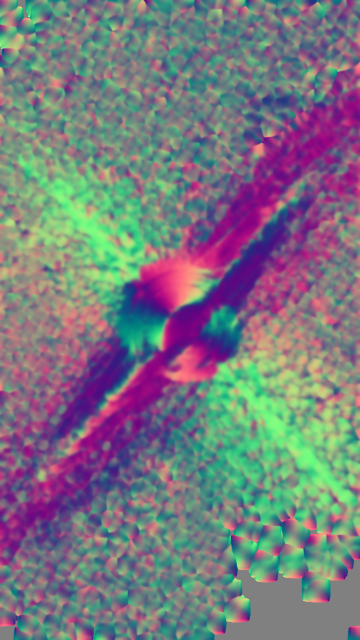
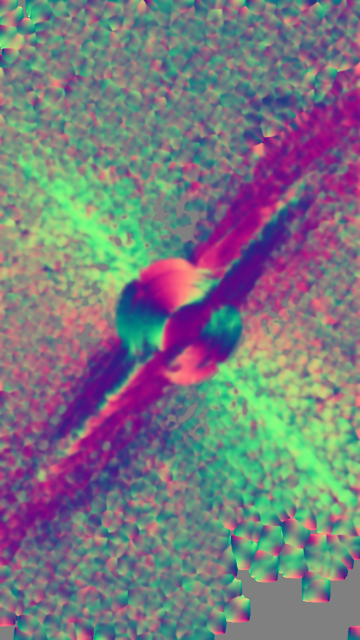
Intro: the drive fails into TV static and black, then white light; the wing corners go
The jump's failure is now a quake that grows harder and harder, the picture breaking up into
TV static (snow, a rolling bar, slipping lines) and then going black; after a beat, a sudden
white light, and the ship is through. The HUD vanishes with the signal and returns on arrival.

The two corners of the disk's wings (upper left and lower right, beyond the photon ring) are
taken out of the reference (public/hole-ref.webp; the red fallback image follows), and the bake
keeps them quiet: there the lane and flow fields hold no lanes running round the hole, and the
seam map stills the disk's orbital detail and motion, so the page does not draw the arcs back.

diff --git a/src/scene.ts b/src/scene.ts
@@ -100,18 +100,24 @@ export const INTRO = {
   lock: 6.05,
   spool: 6.45,
   engage: 7.45,
-  glitch: 11.45,
-  drop: 13.15,
+  /** Mid-jump the drive fails: the ship shakes harder and harder (GLITCH), the picture breaks up into
+   * TV static (STATIC), then the screen goes black (BLACK); after a beat, a sudden white light and
+   * it is through (DROP). */
+  glitch: 10.9,
+  static: 12.2,
+  black: 12.95,
+  drop: 14.2,
   /** Out of the jump it brakes hard and comes to rest at STILL; the arrival title holds, centred,
    * from NAMED until the page shows at ARRIVE. */
-  named: 14.05,
-  still: 15.75,
-  arrive: 16.95,
+  named: 15.1,
+  still: 16.8,
+  arrive: 18.0,
 };
 const ENGAGE_AT = INTRO.engage;
 const GLITCH_AT = INTRO.glitch;
+const STATIC_AT = INTRO.static;
+const BLACK_AT = INTRO.black;
 const DROP_AT = INTRO.drop;
-const SETTLE = 0.9;   // the drop's interference dying away
 const ZOOM_TIME = 1.05;
 
 /**
@@ -122,7 +128,7 @@ const ZOOM_TIME = 1.05;
 export const LAUNCH = { charge: 0.55, jump: 0.18, settle: 0.6 };
 export type LaunchPhase = 'charge' | 'jump' | 'arrive';
 
-export type JumpPhase = 'engage' | 'glitch' | 'drop';
+export type JumpPhase = 'engage' | 'glitch' | 'static' | 'black' | 'drop';
 
 export class HoleScene {
   readonly hole: BlackHole;
@@ -266,6 +272,8 @@ export class HoleScene {
   }
   private holeAt = { x: 0, y: 0 };
   private engaged = false;
+  /** The picture as the drive fails: '' fine, then 'static', then 'black'. */
+  private signal: '' | 'static' | 'black' = '';
   /** Leaving hyperspace (scene time it dropped out, or -1): everything slows from fast to still. */
   private exitT0 = -1;
   /** The clock the scene's motion runs on: the disk, the starlight, the planets' drift. It races
@@ -307,6 +315,7 @@ export class HoleScene {
     this.revealT0 = -1;
     this.glitching = false;
     this.engaged = false;
+    this.signal = '';
     this.exitT0 = -1;
     this.dropped = false;
     this.jumpT0 = this.time;
@@ -477,9 +486,9 @@ export class HoleScene {
       for (const k of ['cx', 'cy', 'r'] as const) this.cur[k] = lerp(this.cur[k], target[k], f);
     }
 
-    // Intro: a normal hyperspace jump, then the drive fails in bursts that grow longer and harder
-    // (the frame tears, the streaks stutter), then it drops out with a red flash straight into the
-    // red field, the last of the interference dying away.
+    // Intro: a normal hyperspace jump; then the drive fails: the ship shakes harder and harder, the
+    // picture breaks up into TV static and goes black; after a beat, a sudden white light, and it
+    // is through, braking hard into the field round the hole.
     let warp = 0;
     let glitch = 0;
     let flash = 0;
@@ -489,6 +498,9 @@ export class HoleScene {
     let jolt = 0;
     let jBlur = 0;
     let jWhite = 0;
+    // The drive failing: TV static over everything, then black.
+    let snow = 0;
+    let black = 0;
     const tick = Math.floor(this.time * 13);
     if (this.jumpT0 >= 0) {
       const t = this.time - this.jumpT0;
@@ -517,10 +529,27 @@ export class HoleScene {
             this.glitching = true;
             this.onJump?.('glitch');
           }
-          const k = clamp01((t - GLITCH_AT) / (DROP_AT - GLITCH_AT));
-          const burst = hash(tick) < 0.3 + 0.6 * k;
-          glitch = burst ? 0.35 + 0.65 * k : 0.1 * k;
-          if (burst) warp *= 0.5 + 0.5 * hash(tick + 0.5);
+          // The drive failing: the ship shakes harder and harder, the streaks stutter.
+          const k = clamp01((t - GLITCH_AT) / (STATIC_AT - GLITCH_AT));
+          jolt = Math.max(jolt, 5 + 30 * k * k);
+          warp *= 0.7 + 0.3 * hash(tick + 0.5);
+        }
+        if (t >= STATIC_AT && t < BLACK_AT) {
+          if (this.signal !== 'static') {
+            this.signal = 'static';
+            this.onJump?.('static');
+          }
+          // The picture breaks up into TV static.
+          snow = clamp01((t - STATIC_AT) / 0.08);
+        }
+        if (t >= BLACK_AT) {
+          if (this.signal !== 'black') {
+            this.signal = 'black';
+            this.onJump?.('black');
+          }
+          // Nothing: black, for a beat.
+          black = 1;
+          jolt = 0;
         }
       } else {
         if (!this.dropped) {
@@ -529,9 +558,9 @@ export class HoleScene {
           this.exitT0 = this.time;
           this.onJump?.('drop');
         }
+        // Out of the black, a sudden white light: through.
         const a = t - DROP_AT;
-        flash = 0.85 * Math.max(0, 1 - a / 0.4);
-        glitch = 0.6 * Math.max(0, 1 - a / SETTLE) * (hash(tick) < 0.5 ? 1 : 0.3);
+        jWhite = Math.max(jWhite, 3.2 * (a < 0.06 ? 1 : Math.exp(-(a - 0.06) / 0.3)));
         // The page shows while the scene is still slowing.
         if (t >= INTRO.arrive) {
           this.jumpT0 = -1;
@@ -681,6 +710,8 @@ export class HoleScene {
       sky: (this.cur.r / UNIT) * pr,
       red,
       silver: silver ? 1 : 0,
+      snow,
+      black,
       glitch,
       glitchSeed: tick % 997,
       flash,

diff --git a/src/blackhole.ts b/src/blackhole.ts
@@ -1342,7 +1342,8 @@ void main() {
     if (en > 0.0 && refW < 1.0) {
       // Which way the picture's lanes run: along the orbits on the disk (away from seams between
       // surfaces, where the radius jumps from pixel to pixel), round the hole in and around its shadow.
-      float onDisk = hitType > 0 ? 1.0 - smoothstep(8.0, 16.0, g * uScale) : 0.0;
+      // (and not where the seam map holds the disk still: its edges, and the wings' removed corners)
+      float onDisk = hitType > 0 ? (1.0 - smoothstep(8.0, 16.0, g * uScale)) * awayFromSeams(p) : 0.0;
       float nearHole = absorbed ? 1.0 : hitType > 0 ? 1.0 - smoothstep(9.0, 12.0, gRu) : 1.0 - smoothstep(5.5, 7.0, gRu);
       float calm = max(onDisk, nearHole);
       if (calm > 0.0) {
@@ -1521,6 +1522,9 @@ export interface HoleState {
   flash: number;
   /** The silver-white palette (no red anywhere after the jump). */
   silver?: number;
+  /** The drive failing: TV static over the picture (0..1), and the screen going black (0..1). */
+  snow?: number;
+  black?: number;
   /** Leaving hyperspace: speed still left (1 at the drop, 0 at rest). */
   exit?: number;
   /** A jump to a body: radial motion blur towards blurAt (drawing-buffer px, y up), and the arrival flash. */
@@ -1631,6 +1635,8 @@ uniform float uGlitch;
 uniform float uGlitchSeed;
 uniform float uFlash;
 uniform float uSilver;  // the silver-white palette: no red bleeding through the glitch, a white drop-out flash
+uniform float uSnow;    // TV static over everything (the drive failing)
+uniform float uBlack;   // the screen gone black
 uniform float uBlur;    // a jump: radial motion blur towards uBlurC (drawing-buffer px), 0..1
 uniform vec2 uBlurC;
 uniform float uWhite;   // a jump's arrival: a white-hot flash
@@ -1705,10 +1711,25 @@ void main() {
     float line = 1.0 - smoothstep(0.25, 0.9, wpx);
     c += vec3(1.0, 0.88, 0.74) * line * seg * on * smoothstep(60.0, 220.0, rr) * uBlur * 0.9;
   }
+  // The drive failing: the picture breaks up into TV static (snow, a rolling bar, scanlines, lines
+  // slipping sideways), then the screen goes black.
+  if (uSnow > 0.001) {
+    vec2 g = f / (1.6 * uPr);
+    float row = floor(g.y);
+    g.x += (h(vec2(row * 0.37, floor(uSeed))) - 0.5) * 6.0 * step(0.86, h(vec2(row, uSeed + 2.0)));
+    float n = h(floor(g) + vec2(uSeed * 13.1, uSeed * 7.7));
+    n = mix(n, h(floor(g * 0.5) + uSeed), 0.25);
+    float yy = fract(f.y / uRes.y + uT * 0.9);
+    float bar = 1.0 - 0.45 * exp(-sq((yy - 0.5) / 0.07));
+    float lines = 0.82 + 0.18 * step(0.5, fract(f.y / (2.0 * uPr)));
+    vec3 tv = vec3(0.86, 0.88, 0.9) * (0.08 + 0.92 * n * n) * bar * lines;
+    c = mix(c, tv, uSnow);
+  }
+  c *= 1.0 - uBlack;
   // The arrival flash: white-hot at the point of arrival, a fainter wash beyond.
   if (uWhite > 0.001) {
     float d = length(f - uBlurC) / uRes.y;
-    c = mix(c, vec3(1.0, 0.95, 0.88), clamp(uWhite * (0.3 + 0.9 * exp(-sq(d / 0.32))), 0.0, 1.0));
+    c = mix(c, mix(vec3(1.0, 0.95, 0.88), vec3(0.97, 0.98, 1.0), uSilver), clamp(uWhite * (0.3 + 0.9 * exp(-sq(d / 0.32))), 0.0, 1.0));
   }
   // A whisper of grain hides banding in the dark glow.
   c += (h(f + uSeed) - 0.5) / 255.0 * uGrain;
@@ -1981,6 +2002,8 @@ export class BlackHole {
       gl.uniform1f(gl.getUniformLocation(p, 'uGlitchSeed'), s.glitchSeed);
       gl.uniform1f(gl.getUniformLocation(p, 'uFlash'), s.flash);
       gl.uniform1f(gl.getUniformLocation(p, 'uSilver'), s.silver ?? 0);
+      gl.uniform1f(gl.getUniformLocation(p, 'uSnow'), s.snow ?? 0);
+      gl.uniform1f(gl.getUniformLocation(p, 'uBlack'), s.black ?? 0);
       gl.uniform1f(gl.getUniformLocation(p, 'uBlur'), s.blur ?? 0);
       gl.uniform2f(gl.getUniformLocation(p, 'uBlurC'), s.blurAt?.[0] ?? 0, s.blurAt?.[1] ?? 0);
       gl.uniform1f(gl.getUniformLocation(p, 'uWhite'), s.white ?? 0);

diff --git a/src/styles.css b/src/styles.css
@@ -1661,6 +1661,14 @@ html:not(.stacked) .hud-lock.flip .hud-target::before {
     1px 0 rgba(60, 230, 255, 0.8);
 }
 
+/* The signal lost (TV static, then black): nothing of the HUD shows through. */
+.intro.nosignal .hud,
+.intro.nosignal .intro-c,
+.intro.nosignal .intro-skip {
+  opacity: 0;
+  transition: none;
+}
+
 /* The drive fails: the HUD turns red and shakes. */
 .intro.glitch {
   --hud: #ff5a3c;
@@ -2830,4 +2838,27 @@ body.jumping .foot {
 .palette-silver .paper-row:hover,
 .palette-silver .paper-row:focus-visible {
   background: rgba(220, 230, 245, 0.05);
+}
+
+/* The drive failing: the whole HUD quakes with the ship. */
+.intro.glitch:not(.dropped) .hud,
+.intro.glitch:not(.dropped) .intro-c {
+  animation: hud-quake 0.09s steps(2, end) infinite;
+}
+@keyframes hud-quake {
+  0% {
+    transform: translate(0, 0);
+  }
+  25% {
+    transform: translate(-9px, 5px) rotate(-0.4deg);
+  }
+  50% {
+    transform: translate(8px, -6px);
+  }
+  75% {
+    transform: translate(-5px, -4px) rotate(0.3deg);
+  }
+  100% {
+    transform: translate(6px, 3px);
+  }
 }

diff --git a/src/main.ts b/src/main.ts
@@ -659,9 +659,11 @@ async function intro(s: NonNullable<typeof scene>) {
       introEl.classList.add('glitch');
       label.textContent = '⚠ DRIVE MALFUNCTION';
     }
+    // The signal breaks up and is lost: the HUD goes with it.
+    if (p === 'static' || p === 'black') introEl.classList.add('nosignal');
     if (p === 'drop') {
       phase = 'drop';
-      introEl.classList.remove('punch');
+      introEl.classList.remove('punch', 'nosignal');
       void introEl.offsetWidth;
       introEl.classList.add('dropped', 'slam');
     }

diff --git a/scripts/bake-disk.py b/scripts/bake-disk.py
@@ -64,6 +64,28 @@ def taps(x, y, W, H):
     return idx, w
 
 
+def wing_corners(code):
+    """The two corners of the disk's wings that were taken out of the picture (upper left and lower
+    right, beyond the photon ring, on open sky or the faint outer inner disk): 1 there, 0 elsewhere,
+    soft-edged. No lanes may run round the hole there, and the disk's own orbital detail and motion
+    hold still, or the page would draw the arcs back in."""
+    CX, CY = 356.0, 640.0
+    ys, xs = np.mgrid[0:code.shape[0], 0:code.shape[1]].astype(np.float64)
+    rx, ry = xs - CX, -(ys - CY)
+    th = (np.degrees(np.arctan2(ry, rx)) + 360) % 360
+    rad = np.hypot(rx, ry)
+
+    def band(a, b, w):
+        t = (th - a) % 360
+        span = (b - a) % 360
+        return np.clip(t / w, 0, 1) * np.clip((span - t) / w, 0, 1) * (t <= span)
+
+    sector = np.maximum(band(72, 203, 10), band(255, 18, 10))
+    radial = np.clip((rad - 120) / 14, 0, 1) * (1 - np.clip((rad - 230) / 30, 0, 1))   # (clear of the ring's own arcs)
+    open_ = ndimage.gaussian_filter(((code == 0) | (code == 2)).astype(np.float64), 3.0)
+    return sector * radial * open_
+
+
 def bake_lanes(ref, code):
     """The picture's light lanes round the hole (public/disk-lanes.webp): RG the lane direction (y up,
     turned to circulate counter-clockwise), B its weight (how clearly the lane runs round the hole)
@@ -86,13 +108,14 @@ def bake_lanes(ref, code):
     conc = np.abs(cr) / np.maximum(rad, 1e-6)
     w = np.clip((coh - 0.05) / 0.2, 0, 1) * np.clip((conc - 0.25) / 0.35, 0, 1) * (1 - np.clip((rad / PX - 18) / 5, 0, 1))
     w = np.clip(ndimage.gaussian_filter(w, 5.0) * 1.4, 0, 1)
+    w *= 1 - wing_corners(code)
     tux, tuy = ndimage.gaussian_filter(tux, 1.5), ndimage.gaussian_filter(tuy, 1.5)
     n = np.maximum(np.hypot(tux, tuy), 1e-6)
     rgb = np.stack([np.round((tux / n * 0.5 + 0.5) * 255), np.round((tuy / n * 0.5 + 0.5) * 255), np.round(w * 127) + (code == 3) * 128], -1)
     Image.fromarray(rgb.astype(np.uint8), 'RGB').save(os.path.join(ROOT, 'public', 'disk-lanes.webp'), lossless=True, quality=100, method=6)
 
 
-def bake_flow(ref):
+def bake_flow(ref, code):
     """The picture's lane orientation everywhere (public/disk-flow.webp, half size): RG the doubled-angle
     vector of the lane direction (image axes, y down), its length the lanes' coherence. Used to
     smooth and refine the picture along its own lanes when it is drawn much larger than itself."""
@@ -102,6 +125,15 @@ def bake_flow(ref):
     tr = np.maximum(jxx + jyy, 1e-9)
     # The gradient's doubled angle is (jxx - jyy, 2 jxy) / tr; the lanes run at right angles to it.
     d2 = np.stack([-(jxx - jyy) / tr, -2 * jxy / tr], -1)
+    # In the wing corners only lanes that run outwards (the jets, the streaks) survive: the ones
+    # running round the hole would draw the removed arcs back in.
+    CX, CY = 356.0, 640.0
+    ys, xs = np.mgrid[0:code.shape[0], 0:code.shape[1]].astype(np.float64)
+    rad = np.maximum(np.hypot(xs - CX, ys - CY), 1e-6)
+    r2 = np.stack([((xs - CX) ** 2 - (ys - CY) ** 2) / rad ** 2, 2 * (xs - CX) * (ys - CY) / rad ** 2], -1)   # radial, doubled angle
+    outward = np.clip((np.sum(d2 * r2, -1) / np.maximum(np.hypot(d2[..., 0], d2[..., 1]), 1e-6) - 0.3) / 0.5, 0, 1)
+    q = wing_corners(code)
+    d2 *= (1 - q * (1 - outward))[..., None]
     d2 = d2[::2, ::2] * 0.5 + d2[1::2, 1::2] * 0.5
     rgb = np.concatenate([np.round((d2 * 0.5 + 0.5) * 255), np.full(d2.shape[:2] + (1,), 128.0)], -1)
     Image.fromarray(np.clip(rgb, 0, 255).astype(np.uint8), 'RGB').save(os.path.join(ROOT, 'public', 'disk-flow.webp'), lossless=True, quality=100, method=6)
@@ -123,11 +155,12 @@ def main():
         edge[a] |= diff
         edge[b] |= diff
     seams = np.clip(ndimage.distance_transform_edt(~edge) / 24.0, 0, 1)
+    seams *= 1 - wing_corners(code)   # (and nothing moves or is drawn along orbits in the wing corners)
     Image.fromarray(np.round(seams * 255).astype(np.uint8), 'L').save(
         os.path.join(ROOT, 'public', 'disk-seams.webp'), lossless=True, quality=100, method=6)
 
     bake_lanes(ref, code)
-    bake_flow(ref)
+    bake_flow(ref, code)
 
     lum = ref.mean(2)
     var = np.maximum(ndimage.maximum_filter(lum, 5) - lum, lum - ndimage.minimum_filter(lum, 5))

diff --git a/README.md b/README.md
@@ -14,7 +14,7 @@ Kelvin Tang's personal homepage, set at the edge of a black hole.
 
 - **A rendered black hole, not a picture.** A WebGL2 fragment shader integrates Schwarzschild null geodesics pixel by pixel through a warped accretion disk: the bright band across the shadow, the long layered wings, and the far side of the disk lensed over and under the hole into a ring. The disk is matched pixel for pixel to a reference image. Every pixel of the reference is traced to where its ray meets the disk, and its colour is baked into the disk textures (`public/disk-*.webp`, made by [`scripts/bake-disk.py`](scripts/bake-disk.py)). Past the reference's frame, a procedural sky takes over. It is shown in the reference's own silver-white; add `?palette=red` to see it in red.
 - **Everything moves.** Light rides the disk's orbits at Kepler's pace (inner orbits faster), arcs stream round the hole along the reference's own light lanes, the jets fire pulses outwards, the wings turn with the disk, and the sprayed starlight streams away. Each layer keeps returning to the reference, and motion fades out where surfaces meet, so nothing tears. Drawn far larger than the reference, the picture is smoothed along its lanes and sharpened across them, with fine filaments grown along them.
-- **An intro, about 17 seconds.** A cyber nav HUD comes online. Coordinates for the Solar System are typed into the nav computer, and a scan sweeps the screen past Alpha Centauri, Barnard's Star, Sirius and TRAPPIST-1 before locking on Sol. The drive spools, counts down, and punches into hyperspace. Mid-jump the drive fails: the HUD turns red and garbled, the frame tears, and the ship slams out of hyperspace into an unknown sector, next to the black hole. Skip it with any key; it plays once per tab, and `?intro` replays it.
+- **An intro, about 18 seconds.** A cyber nav HUD comes online. Coordinates for the Solar System are typed into the nav computer, and a scan sweeps the screen past Alpha Centauri, Barnard's Star, Sirius and TRAPPIST-1 before locking on Sol. The drive spools, counts down, and punches into hyperspace. Mid-jump the drive fails: the ship shakes harder and harder, the picture breaks up into TV static and goes black. After a beat, a sudden white light, and the ship is through, braking hard into an unknown sector next to the black hole. Skip it with any key; it plays once per tab, and `?intro` replays it.
 - **Five sections, five planets.** They float between the camera and the hole at different depths, with real perspective and parallax as the camera sways. Choosing one is a jump: lock, spool, a burst of speed, and arrival in a white-hot flash. The planet then grows into a world of its own beside the panel:
   - About: an ocean world
   - Research: an ice world
@@ -68,7 +68,7 @@ Kelvin Tang 的个人主页，场景设在一个黑洞的边缘。
 
 - **实时渲染的黑洞，而不是一张图片。** WebGL2 片元着色器逐像素积分史瓦西零测地线，光线穿过一个扭曲的吸积盘：斜穿阴影的亮带、长长的层叠两翼，盘的背面经引力透镜弯到黑洞上下方，合成一道圆环。盘面与一张参考图逐像素对齐：参考图的每个像素都沿光线追踪到它落在盘上的位置，颜色烘焙进盘面纹理（`public/disk-*.webp`，由 [`scripts/bake-disk.py`](scripts/bake-disk.py) 生成）。参考图边框之外由程序生成的星空接续。画面保持参考图本来的银白色；网址加 `?palette=red` 可以看红色版本。
 - **整个画面都在动。** 光沿盘的轨道按开普勒速度流动（内圈快），黑洞周围的光弧沿参考图自身的光道绕行，两极喷流向外射出光脉冲，两翼随盘转动，溅射的星辉向外涌出。每层动效都会周期性地回到参考图本身，不同表面相接处动效渐弱，避免撕裂。放大到远超参考图分辨率时，画面沿光道平滑、垂直于光道锐化，并沿光道生成细丝纹理。
-- **约 17 秒的开场。** 赛博风格的导航 HUD 上线，在导航电脑里输入太阳系的坐标；搜索圈横扫屏幕，依次掠过半人马座 α、巴纳德星、天狼星、TRAPPIST-1，最后锁定太阳系。引擎充能、倒计时，猛然冲进超空间。途中引擎故障：HUD 转红、读数乱码、画面撕裂，随后急刹脱离跃迁，落进一片未知星域，就在黑洞旁边。按任意键可跳过；每个标签页只播一次，网址加 `?intro` 可重播。
+- **约 18 秒的开场。** 赛博风格的导航 HUD 上线，在导航电脑里输入太阳系的坐标；搜索圈横扫屏幕，依次掠过半人马座 α、巴纳德星、天狼星、TRAPPIST-1，最后锁定太阳系。引擎充能、倒计时，猛然冲进超空间。途中引擎故障：飞船越震越剧烈，画面变成电视雪花，随后黑屏；停顿片刻后白光骤现，完成跳跃，急刹进入一片未知星域，就在黑洞旁边。按任意键可跳过；每个标签页只播一次，网址加 `?intro` 可重播。
 - **五个板块，五颗星球。** 它们悬浮在相机与黑洞之间的不同深度，有真实的透视，镜头晃动时有视差。点开一个板块就是一次跃迁：锁定、充能、急加速、在白热闪光中抵达。随后那颗星球在面板旁放大成一个独立的世界：
   - About：海洋行星
   - Research：冰封世界
